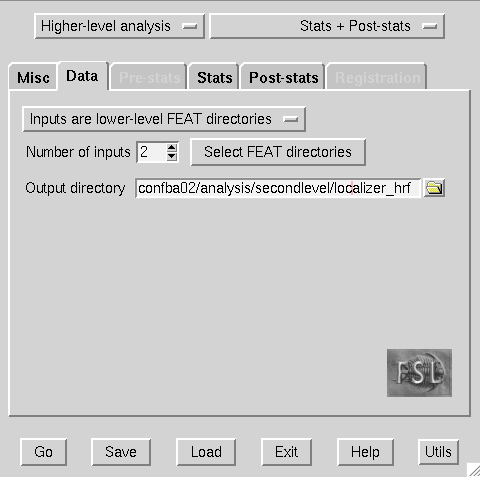
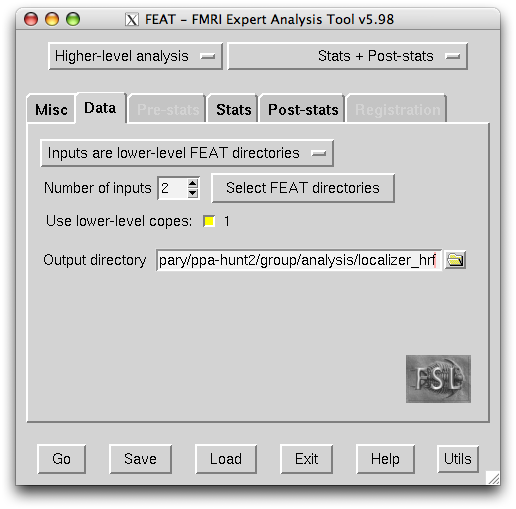
more edits for thirdlevel tutorial

Changed region(s): [[0.0, 0.0, 1.0, 1.0]]

diff --git a/doc/tutorial_thirdlevel/tutorial.rst b/doc/tutorial_thirdlevel/tutorial.rst
@@ -517,7 +517,6 @@ Find the line that says "# 4D AVW data or FEAT directory (1)". Replace it and th
 
   <?php for ($i=0; $i < count($runs); $i++) { ?>
   # 4D AVW data or FEAT directory (<?= $i+1 ?>)
-
   set feat_files(<?= $i+1 ?>) "<?= $SUBJECTS_DIR ?>/analysis/firstlevel/<?= $runs[$i] ?>"
 
   <?php } ?>
@@ -604,8 +603,11 @@ Copy these lines into localizer.sh at the end::
 	output_dir=$subj_dir/analysis/secondlevel/localizer_hrf.gfeat
 	define_vars $output_dir | cat - "$fsf_template" | php > "$fsf_file"
 	feat "$fsf_file"
-
+	
+	cp -R $FIRSTLEVEL_DIR/localizer_hrf_01.feat/reg analysis/secondlevel/localizer_hrf.gfeat
+	
 	popd > /dev/null  # return to whatever directory this script was run from
+
 
 If the text following "STANDARD_BRAIN=" differs from what you copied out of the fsf file in the previous section, replace it with that text you copied.
 
@@ -712,7 +714,7 @@ Launch FEAT::
 The Data tab
 ''''''''''''
 
-Change the drop-down in the top left from "First-level analysis" to "Higher-level analysis". This will change the stuff you see below. Set "Number of inputs" to 2, because we're combining 2 within-subjects analyses, then click "Select FEAT directories". For the first directory, select *~/ppa-hunt2/subjects/0831101_confba02/analysis/secondlevel/localizer_hrf.gfeat*, and for the second, select *~/ppa-hunt2/subjects/0831102_confba02/analysis/secondlevel/localizer_hrf.gfeat*. Set the output directory to *~/ppa-hunt2/group/analysis/localizer_hrf*.
+Change the drop-down in the top left from "First-level analysis" to "Higher-level analysis". This will change the stuff you see below. Set "Number of inputs" to 2, because we're combining 2 within-subjects analyses, then click "Select FEAT directories". Let's say we're interested in the house>scene contrast. Then, for the first directory, select *~/ppa-hunt2/subjects/0831101_confba02/analysis/secondlevel/localizer_hrf.gfeat/cope3.feat*, and for the second, select *~/ppa-hunt2/subjects/0831102_confba02/analysis/secondlevel/localizer_hrf.gfeat/cope3.feat*. Set the output directory to *~/ppa-hunt2/group/analysis/localizer_hrf*.
 
 Go to the Stats tab.
 
@@ -726,19 +728,7 @@ Click "Model setup wizard", leave it on the default option of "single group aver
 
 .. image:: https://github.com/ntblab/neuropipe-support/raw/dev/doc/tutorial_thirdlevel/group-feat-stats.png
 
-
-Finding the group's PPA
------------------------
-
-.. admonition:: you are here
-
-   ~/ppa-hunt2/group
-
-When the analysis finishes, open FSLview::
-
-  $ fslview &
-
-Click File>Open Standard and accept the default. Click File>Add, and select *analysis/localizer_hrf.gfeat/cope4.feat/stats/zstat1.nii.gz*. 
+When the analysis is finished, check the logs to make sure everything looks normal -- for example, that the two subjects' brains were registered correctly to standard space.
 
 Automating the group analysis
 =============================
@@ -751,13 +741,13 @@ Templating the group fsf file
 
 .. admonition:: you are here
 
-   ~/ppa-hunt2/group
+   ~/ppa-hunt2/
 
 Just like when we ran a second-level analysis on two localizer runs for each subject, to template a higher-level fsf file, we'll need to repeat whole sections of the fsf file for each input going into the group analysis. In this case, each input is a subject instead of a run. Like before, we'll use PHP_ to render the templates, and write loops_ for those sections of the template that need repeating for each subject.
 
 Start by copying the *design.fsf* file for the group analysis we just ran to *~/group/fsf*, and give it a ".template" extension::
 
-  $ cp analysis/localizer_hrf.gfeat/design.fsf fsf/localizer_hrf_thirdlevel.fsf.template
+  $ cp group/analysis/localizer_hrf.gfeat/design.fsf fsf/localizer_hrf_thirdlevel.fsf.template
 
 Now, open *fsf/localizer_hrf_thirdlevel.fsf.template* in your favorite text editor::
 
@@ -783,7 +773,8 @@ Find the line that says "# 4D AVW data or FEAT directory (1)". Replace it and th
 Find the line that says "# Higher-level EV value for EV 1 and input 1". Replace it and the next 4 lines with::
 
   <?php for ($i=1; $i < count($subjects)+1; $i++) { ?>
-  # Higher-level EV value for EV 1 and input <?= $i ?> 
+  # Higher-level EV value for EV 1 and input <?= $i ?>
+  
   set fmri(evg<?= $i ?>.1) 1
 
   <?php } ?>
@@ -792,6 +783,7 @@ Find the line that says "# Group membership for input 1". Replace it and the nex
 
   <?php for ($i=1; $i < count($subjects)+1; $i++) { ?>
   # Group membership for input <?= $i ?> 
+  
   set fmri(groupmem.<?= $i ?>) 1
 
   <?php } ?>
@@ -808,16 +800,11 @@ Automating the group analysis
 
 .. admonition:: you are here
 
-   ~/ppa-hunt2/group
-
-Now that we have a template for the group localizer analysis fsf file, all that's left is to render it and run FEAT on the rendered fsf file. Move up to the project directory and make a file in *scripts* called *group-localizer.sh* with your text editor::
-
-  $ cd ..
-  $ nano scripts/group-localizer.sh
-
-.. admonition:: you are here
-
    ~/ppa-hunt2
+
+Now that we have a template for the group localizer analysis fsf file, all that's left is to render it and run FEAT on the rendered fsf file. Make a file in *scripts* called *group-localizer.sh* with your text editor::
+
+  $ nano scripts/group-localizer.sh
 
 Copy these lines into *scripts/group-localizer.sh*::
 
@@ -866,9 +853,8 @@ A webpage should open in your browser showing FEAT's progress. Because we manual
 
 **Summary**::
 
-  $ cd ../..
   $ nano scripts/group-localizer.sh
-  $ bash scripts/group-localizer.sh
+  $ scripts/group-localizer.sh
 
 
 Automating the entire analysis
